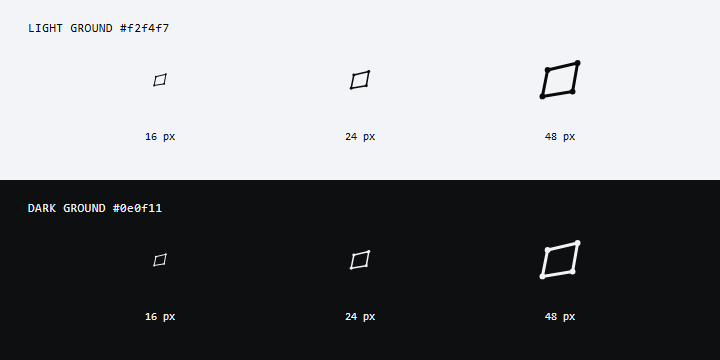
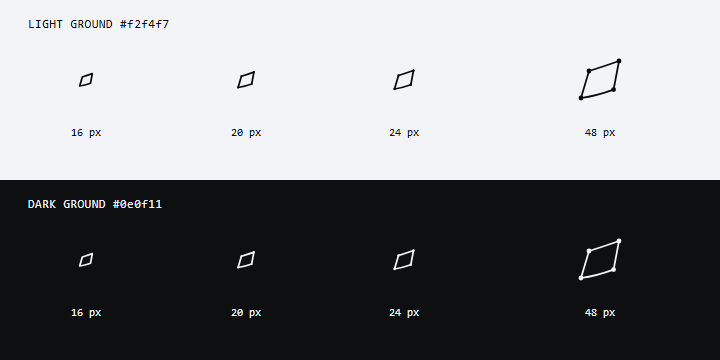
Phase 1 follow-ups

diff --git a/docs/redesign/contrast_check.py b/docs/redesign/contrast_check.py
@@ -18,7 +18,10 @@ def ratio(foreground: str, background: str) -> float:
 THEMES = {
     "light": {
         "surface": "#ffffff", "ground": "#f2f4f7", "text": "#0a0a0a",
-        "muted": "#6b6b6b", "chart-3": "#1d5fbf", "accent": "#141414",
+        "muted": "#6b6b6b", "chart-2": "#8a8a8a", "chart-3": "#1d5fbf",
+        "accent": "#141414", "control-strong": "#858a94",
+        "positive": "#2e7d32", "negative": "#c4242a", "warning": "#92400e",
+        "stage-bg": "#ffffff", "stage-edge": "#8a8f98",
         "pills": {
             "positive": ("#04250e", "#dcfae5"),
             "negative": ("#831c1e", "#ffedea"),
@@ -28,7 +31,10 @@ THEMES = {
     },
     "dark": {
         "surface": "#141518", "ground": "#0e0f11", "text": "#f2f3f4",
-        "muted": "#9a9ea5", "chart-3": "#6ea2f0", "accent": "#f2f3f4",
+        "muted": "#9a9ea5", "chart-2": "#7d828a", "chart-3": "#6ea2f0",
+        "accent": "#f2f3f4", "control-strong": "#686e77",
+        "positive": "#5fc39c", "negative": "#ef6b7a", "warning": "#d9a441",
+        "stage-bg": "#141518", "stage-edge": "#686e77",
         "pills": {
             "positive": ("#5fc39c", "#1b2828"),
             "negative": ("#ef6b7a", "#2c1a20"),
@@ -46,9 +52,18 @@ for theme, t in THEMES.items():
         ("--text on --ground", t["text"], t["ground"], 4.5),
         ("--muted on --surface", t["muted"], t["surface"], 4.5),
         ("--muted on --ground", t["muted"], t["ground"], 4.5),
+        ("--control-strong on --surface", t["control-strong"], t["surface"], 3.0),
+        ("--control-strong on --ground", t["control-strong"], t["ground"], 3.0),
+        ("--chart-2 on --surface", t["chart-2"], t["surface"], 3.0),
         ("--chart-3 on --surface", t["chart-3"], t["surface"], 3.0),
         ("--accent on --surface", t["accent"], t["surface"], 3.0),
+        ("--stage-edge on --stage-bg", t["stage-edge"], t["stage-bg"], 3.0),
     ]
+    checks.extend(
+        (f"--{name} text on --{background_name}", t[name], t[background_name], 4.5)
+        for name in ("positive", "negative", "warning")
+        for background_name in ("surface", "ground")
+    )
     checks.extend(
         (f"{name} pill ink on background", ink, background, 4.5)
         for name, (ink, background) in t["pills"].items()

diff --git a/docs/redesign/DIRECTION.md b/docs/redesign/DIRECTION.md
@@ -14,12 +14,12 @@ The exact draw selected a 55px icon rail and an analytics report-card-with-legen
 
 ## Final design tokens
 
-The light theme is the default. Dark remains a later token swap; the dark values below are the checked starting values from plan section 4. No app CSS or runtime theme code was added.
+The light theme is the default. Dark remains selectable when the shell lands. `--control` is reserved for dividers; `--control-strong` is used for field, select, and segmented-control boundaries and measures at least 3:1 on both surface and ground in both themes.
 
 | Token group | Light | Dark |
 |---|---|---|
 | Ground / surface / raised | `#f2f4f7` / `#ffffff` / `#eceff3` | `#0e0f11` / `#141518` / `#1c1d21` |
-| Border / rule / control | `#e2e6eb` / `#eef1f4` / `#cfd5dc` | `#26282c` / `#1d1f23` / `#3a3d42` |
+| Border / rule / divider control / strong control | `#e2e6eb` / `#eef1f4` / `#cfd5dc` / `#858a94` | `#26282c` / `#1d1f23` / `#3a3d42` / `#686e77` |
 | Text / muted / accent | `#0a0a0a` / `#6b6b6b` / `#141414` | `#f2f3f4` / `#9a9ea5` / `#f2f3f4` |
 | Chart 1 / chart 2 / chart 3 | `#141414` / `#8a8a8a` / `#1d5fbf` | `#f2f3f4` / `#7d828a` / `#6ea2f0` |
 | Positive / negative / warning | `#2e7d32` / `#c4242a` / `#92400e` | `#5fc39c` / `#ef6b7a` / `#d9a441` |
@@ -27,13 +27,13 @@ The light theme is the default. Dark remains a later token swap; the dark values
 | Negative pill background / ink | `#ffedea` / `#831c1e` | `#2c1a20` / `#ef6b7a` |
 | Warning pill background / ink | `#fffbeb` / `#92400e` | `#2a2416` / `#d9a441` |
 | Neutral pill background / ink | `#eeeeee` / `#3d3d3d` | `#212226` / `#c9ccd1` |
-| Stage background / part / edge / selected | `surface` / `#d9dde3` / `#8a8f98` / `chart-3` | `surface` / `#2a2d33` / `#5b6068` / `chart-3` |
+| Stage background / part / edge / selected | `surface` / `#d9dde3` / `#8a8f98` / `chart-3` | `surface` / `#2a2d33` / `#686e77` / `chart-3` |
 
 Shape and type values stay as specified in plan section 4: card radius 8px, control radius 6px, pill radius 999px, row 44px, control 36px, filter 28px, 55px desktop icon rail, 12px gap, 24px card padding, 32px page gutter; 24px title, 16px section title, 30px KPI, 14px body, 12px small text. Motion is 120-240ms with opacity/transform only. Keep chart and residual meaning independent of hue.
 
 ### Contrast measurements
 
-Ran `.venv\Scripts\python.exe docs/redesign/contrast_check.py`. Text and pill ink require 4.5:1; UI and chart marks require 3:1. All checked pairs pass; no token adjustment was needed.
+Ran `python docs/redesign/contrast_check.py`. Text and pill ink require 4.5:1; UI and chart marks require 3:1. Status text is measured on both surface and ground, the stage edge against the stage background, and the strong control edge against surface and ground. All 40 measured pairs pass.
 
 | Theme | Pair | Ratio | Minimum |
 |---|---|---:|---:|
@@ -41,8 +41,18 @@ Ran `.venv\Scripts\python.exe docs/redesign/contrast_check.py`. Text and pill in
 | Light | `--text` on `--ground` | 17.97:1 | 4.5:1 |
 | Light | `--muted` on `--surface` | 5.33:1 | 4.5:1 |
 | Light | `--muted` on `--ground` | 4.84:1 | 4.5:1 |
+| Light | `--control-strong` on `--surface` | 3.47:1 | 3.0:1 |
+| Light | `--control-strong` on `--ground` | 3.14:1 | 3.0:1 |
+| Light | `--chart-2` on `--surface` | 3.45:1 | 3.0:1 |
 | Light | `--chart-3` on `--surface` | 6.10:1 | 3.0:1 |
 | Light | `--accent` on `--surface` | 18.42:1 | 3.0:1 |
+| Light | `--stage-edge` on `--stage-bg` | 3.25:1 | 3.0:1 |
+| Light | `--positive` text on `--surface` | 5.13:1 | 4.5:1 |
+| Light | `--positive` text on `--ground` | 4.65:1 | 4.5:1 |
+| Light | `--negative` text on `--surface` | 5.78:1 | 4.5:1 |
+| Light | `--negative` text on `--ground` | 5.25:1 | 4.5:1 |
+| Light | `--warning` text on `--surface` | 7.09:1 | 4.5:1 |
+| Light | `--warning` text on `--ground` | 6.43:1 | 4.5:1 |
 | Light | Positive pill ink on background | 14.77:1 | 4.5:1 |
 | Light | Negative pill ink on background | 8.63:1 | 4.5:1 |
 | Light | Warning pill ink on background | 6.84:1 | 4.5:1 |
@@ -51,8 +61,18 @@ Ran `.venv\Scripts\python.exe docs/redesign/contrast_check.py`. Text and pill in
 | Dark | `--text` on `--ground` | 17.26:1 | 4.5:1 |
 | Dark | `--muted` on `--surface` | 6.79:1 | 4.5:1 |
 | Dark | `--muted` on `--ground` | 7.13:1 | 4.5:1 |
+| Dark | `--control-strong` on `--surface` | 3.55:1 | 3.0:1 |
+| Dark | `--control-strong` on `--ground` | 3.73:1 | 3.0:1 |
+| Dark | `--chart-2` on `--surface` | 4.72:1 | 3.0:1 |
 | Dark | `--chart-3` on `--surface` | 7.03:1 | 3.0:1 |
 | Dark | `--accent` on `--surface` | 16.43:1 | 3.0:1 |
+| Dark | `--stage-edge` on `--stage-bg` | 3.55:1 | 3.0:1 |
+| Dark | `--positive` text on `--surface` | 8.50:1 | 4.5:1 |
+| Dark | `--positive` text on `--ground` | 8.92:1 | 4.5:1 |
+| Dark | `--negative` text on `--surface` | 6.13:1 | 4.5:1 |
+| Dark | `--negative` text on `--ground` | 6.44:1 | 4.5:1 |
+| Dark | `--warning` text on `--surface` | 8.12:1 | 4.5:1 |
+| Dark | `--warning` text on `--ground` | 8.53:1 | 4.5:1 |
 | Dark | Positive pill ink on background | 7.08:1 | 4.5:1 |
 | Dark | Negative pill ink on background | 5.53:1 | 4.5:1 |
 | Dark | Warning pill ink on background | 6.85:1 | 4.5:1 |
@@ -66,7 +86,9 @@ Six Latin WOFF2 files were copied at development time from Fontsource 5.3.0: [`G
 
 ## Cycle glyph
 
-The final ink-only 24px glyph is [`cycle-glyph.svg`](glyph/cycle-glyph.svg), with a 1.5px closed four-station loop. The preview is available as [SVG](glyph/cycle-glyph-preview.svg) and [PNG](glyph/cycle-glyph-preview.png), showing 16px, 24px, and 48px sizes on light `#f2f4f7` and dark `#0e0f11` grounds. I rendered and inspected the preview; at 16px the closed outline and four station dots remain visible.
+The final ink-only 24px glyph is [`cycle-glyph.svg`](glyph/cycle-glyph.svg), with a 1.75px closed four-station loop that uses more of the 24px grid; the isobar edges are gently curved. The preview is available as [SVG](glyph/cycle-glyph-preview.svg) and [PNG](glyph/cycle-glyph-preview.png), showing 16px, 20px, 24px, and 48px sizes on light `#f2f4f7` and dark `#0e0f11` grounds. The 16px variant omits station dots.
+
+Geist and Geist Mono do not include U+2009 or U+202F; Geist Mono does not include U+25B2, and neither face includes U+25BE. Units are rendered in a separate span with `margin-inline-start: 0.25em` or separated with U+00A0. Direction and flag markers use Lucide icons or SVG shapes. These four unsupported characters are excluded from product UI copy.
 
 ## Search findings and interaction refinements
 
@@ -78,9 +100,10 @@ The UI/UX Pro Max canonical pre-delivery checklist and quick-reference sections 
 
 - `npm run build`: passed; the existing lazy 3D chunk advisory remains. The build copies the font assets into `dist`, but `frontend/src` has no Geist references, so the UI does not request them.
 - `npm run lint`: passed (exit 0).
-- `.venv\Scripts\python.exe docs/redesign/contrast_check.py`: passed all 20 light/dark pairs.
+- `python docs/redesign/contrast_check.py`: passed all 40 light/dark contrast pairs, including strong controls, chart 2, status text on both backgrounds, and the stage edge.
+- Unsupported-glyph scan: no U+2009, U+202F, U+25B2, or U+25BE characters remain in docs or frontend source.
 - Font integrity check: all six files have the WOFF2 signature; both complete SIL OFL 1.1 texts are present.
-- Chrome headless rendered the preview PNG at 720x360; the 16px, 24px, and 48px marks were visually inspected on both grounds.
+- Chrome headless rendered the preview PNG at 720x360; the 16px, 20px, 24px, and 48px marks were visually inspected on both grounds. The 16px variant has no station dots.
 - `git diff --check`: passed.
 
 The Phase 0 Python gates (Ruff and 69 pytest cases) are recorded in [BASELINE.md](BASELINE.md). No Python or application source changed in Phase 1, so they were not rerun after the direction assets were added.

diff --git a/docs/REDESIGN_PLAN.md b/docs/REDESIGN_PLAN.md
@@ -91,11 +91,11 @@ Why it fits: the chrome holds no colour at all, figures read as columns in a led
 
 **Signature element only this product has: the Station ledger (amended after Phase 0 review).** A thin horizontal strip under the 3D stage shows four Brayton stations in axis order: 1 Compressor inlet → 2 Compressor discharge → 3 Turbine inlet → 4 Turbine exhaust. It shows temperature only: station 1 shows synthetic ambient temperature and ambient pressure from the scenario input (no reference values are supplied); stations 2–4 compare reference and synthetic temperatures where both values exist. The browser API has no per-station pressure values, so the UI must not show them and this redesign must not extend the backend. Selecting a component highlights its station pair, and hovering a station highlights the matching part in 3D.
 
-**Brand mark: the cycle glyph.** A closed four-vertex loop drawn on a 24px grid, 1.5px stroke, ink only. The four vertices are the four stations of the cycle (a T–s diagram silhouette). Starter path (refine by eye):
+**Brand mark: the cycle glyph.** A closed four-station loop drawn on a 24px grid, with the path using most of that grid. Use a 1.75px stroke at 20px and below; the 16px variant omits station dots. Keep the mark ink only. The four vertices are the four stations of the cycle (a T–s diagram silhouette); gently curved isobar edges are preferred where they preserve the four-station read.
 
 ```svg
-<svg viewBox="0 0 24 24" fill="none" stroke="currentColor" stroke-width="1.5" stroke-linejoin="round" aria-hidden="true">
-  <path d="M5 19 L7 9 Q13 6 19 4 L18 13 Q12 17 5 19 Z"/>
+<svg viewBox="0 0 24 24" fill="none" stroke="currentColor" stroke-width="1.75" stroke-linejoin="round" aria-hidden="true">
+  <path d="M2.5 21 L6.5 7.5 Q13 5.5 21.5 2.5 L18.8 16.8 Q10 20 2.5 21 Z"/>
 </svg>
 ```
 
@@ -117,7 +117,8 @@ Create `frontend/src/design/tokens.css`. Values for the light theme are taken fr
   --raised: #eceff3;
   --border: #e2e6eb;
   --rule: #eef1f4;
-  --control: #cfd5dc;
+  --control: #cfd5dc;       /* dividers only */
+  --control-strong: #858a94; /* field, select, segmented-control boundaries */
 
   /* ink */
   --text: #0a0a0a;
@@ -173,6 +174,7 @@ Create `frontend/src/design/tokens.css`. Values for the light theme are taken fr
 [data-theme="dark"] {
   --ground: #0e0f11;  --surface: #141518;  --raised: #1c1d21;
   --border: #26282c;  --rule: #1d1f23;     --control: #3a3d42;
+  --control-strong: #686e77;
   --text: #f2f3f4;    --muted: #9a9ea5;    --accent: #f2f3f4;
   --chart-1: #f2f3f4; --chart-2: #7d828a;  --chart-3: #6ea2f0;
   --positive: #5fc39c; --negative: #ef6b7a; --warning: #d9a441;
@@ -180,7 +182,7 @@ Create `frontend/src/design/tokens.css`. Values for the light theme are taken fr
   --pill-negative-bg: #2c1a20; --pill-negative-ink: #ef6b7a;
   --pill-warning-bg:  #2a2416; --pill-warning-ink:  #d9a441;
   --pill-neutral-bg:  #212226; --pill-neutral-ink:  #c9ccd1;
-  --stage-part: #2a2d33; --stage-edge: #5b6068;
+  --stage-part: #2a2d33; --stage-edge: #686e77;
 }
 ```
 
@@ -189,7 +191,7 @@ Create `frontend/src/design/tokens.css`. Values for the light theme are taken fr
 - **One gap value** (12px) horizontally and vertically inside a card grid; 24px card padding; 32px page gutter.
 - **Type:** Geist 400/500/600/700 and Geist Mono 400/500, self-hosted as `.woff2` in `frontend/public/fonts/` with the OFL licence text beside them (the project already does this for Fira). Remove the Fira files once the swap lands. Apply `font-variant-numeric: tabular-nums` to every figure. **Bold is for the page title and section titles, never for numbers.**
 - **Colour budget:** under 1% coloured pixels on a screen in the light theme. Ink and grey everywhere; `--chart-3` only on the observation series, the selected sample marker, and the selected 3D part; red and green only as a small sign or short number where a figure changed.
-- **Signs, not colour alone:** every residual shows a `+` or `−` and a small triangle. Colour never carries meaning by itself.
+- **Signs, not colour alone:** every residual shows a `+` or `−` and a small direction marker drawn with a Lucide icon or SVG shape. Do not use U+25B2 or U+25BE; Geist Mono lacks U+25B2 and neither Geist face has U+25BE. Colour never carries meaning by itself.
 - **Radii:** 8px cards, 6px controls, full pills. No other values.
 - **Icons:** `lucide-react`, 16px, 1.5px stroke, outline only. No icons in tinted squares. No emoji.
 - **Forbidden:** gradients, glows, glass, sparklines on KPIs, rainbow charts, "Welcome back", invented vanity numbers, lorem ipsum.
@@ -232,7 +234,7 @@ Use **real values from the running API** (seed 42, `compressor_fouling`, sample 
 |---|---|---|
 | Reference model | `26.30 MW` | Fixed assumptions |
 | Synthetic observation | `24.67 MW` *(ink)* | Model output + generated noise |
-| Residual | `−1.63 MW ▾` *(the only coloured KPI: red sign)* | Observation − reference |
+| Residual | `−1.63 MW` with a down-direction SVG icon *(the only coloured KPI: red sign)* | Observation − reference |
 | Flagged samples | `0 / 96` | Median-absolute-deviation screen |
 
 For the default `compressor_fouling` scenario, the live API currently returns these values at seed 42, sample index 72 (73 of 96): 26.30 MW reference, 24.67 MW observation, -1.63 MW residual, and 0 of 96 flagged. These example values are illustrative; implementers must read current values and flagged counts from the API rather than hard-code them (amended after Phase 0 review).
@@ -307,7 +309,7 @@ Hand-rolled SVG is fine under 1,000 points (this project has at most 288). Make 
 | Reference model | `--chart-1` ink, 1.5px solid | The comparison baseline |
 | Synthetic observation | `--chart-3`, 1.5px solid | **The one hue**, because it is the main data element |
 | Synthetic truth | `--chart-2` grey, 1px dashed | Optional toggle; off by default |
-| Residual strip | Signed bars under the main plot, grey; flagged samples in ink with a small ▲ marker | Own y-scale, zero line visible |
+| Residual strip | Signed bars under the main plot, grey; flagged samples in ink with a small Lucide `Triangle` icon or SVG marker | Own y-scale, zero line visible |
 
 - Y axis is always visible with 4–5 ticks and units (MW). 3–7 faint gridlines at most. No legend for fewer than three series; use **direct end labels**.
 - Series differ by **line style and direct label as well as colour** (ui-ux-pro-max chart guidance: never distinguish series by hue alone).
@@ -324,7 +326,7 @@ The product's credibility depends on not over-claiming. Keep the existing bounda
 
 - **Glossary (use exactly):** Reference model · Synthetic observation · Synthetic truth · Residual (observation − reference) · Residual screen · Flagged sample.
 - **Never write:** fault, failure, diagnosis, anomaly detected, AI-powered, smart, insights. A flagged sample is "flagged by the residual screen".
-- **Sentence case** for all UI text. Units after every value, with a thin space (`25.46 MW`). Dates and times in 24h UTC with the zone shown once in the sample filter.
+- **Sentence case** for all UI text. Units after every value (`25.46 MW`): render the unit in its own span with `margin-inline-start: 0.25em`, or use U+00A0 between value and unit. Do not use U+2009 or U+202F; neither Geist face contains those glyphs. Dates and times in 24h UTC with the zone shown once in the sample filter.
 - **Every empty or error message** says what happened, what it means for the data, and the next action in one line each.
 - The words **synthetic** and **simplified model** appear in the header chip and in the Boundary sheet. They must never be removable by a layout change.
 

diff --git a/docs/redesign/BASELINE.md b/docs/redesign/BASELINE.md
@@ -40,7 +40,7 @@ The earlier `lighthouse.json` had been mislabeled as desktop: it records `formFa
 
 The median mobile performance score is 51 (run 1 selected from the tied median-score runs); the median desktop score is 80 (run 1). Their complete raw JSON reports are [`before/lighthouse-mobile.json`](before/lighthouse-mobile.json) and [`before/lighthouse-desktop.json`](before/lighthouse-desktop.json). `environment.benchmarkIndex` is Lighthouse's CPU calibration value; it varied from 2,079.5 to 2,982.5 on mobile and 1,674 to 2,378 on desktop, so these are local comparison results, not production guarantees.
 
-The corrected mobile median has CLS 0.274. Keep 0.274 as the explicit upper-bound target for the new skeleton-to-content states; lower is better, and the redesign must not exceed this baseline.
+The redesign target is CLS 0.1 or lower on both the mobile and desktop presets. The pre-redesign mobile median was 0.274 and desktop median was 0.034; those are recorded as historical baselines, not acceptance targets. Expect about 5 performance points of run-to-run Lighthouse noise on this machine, so compare repeated runs and supporting metrics rather than treating a small score change as a regression.
 
 ## Regression gates
 
